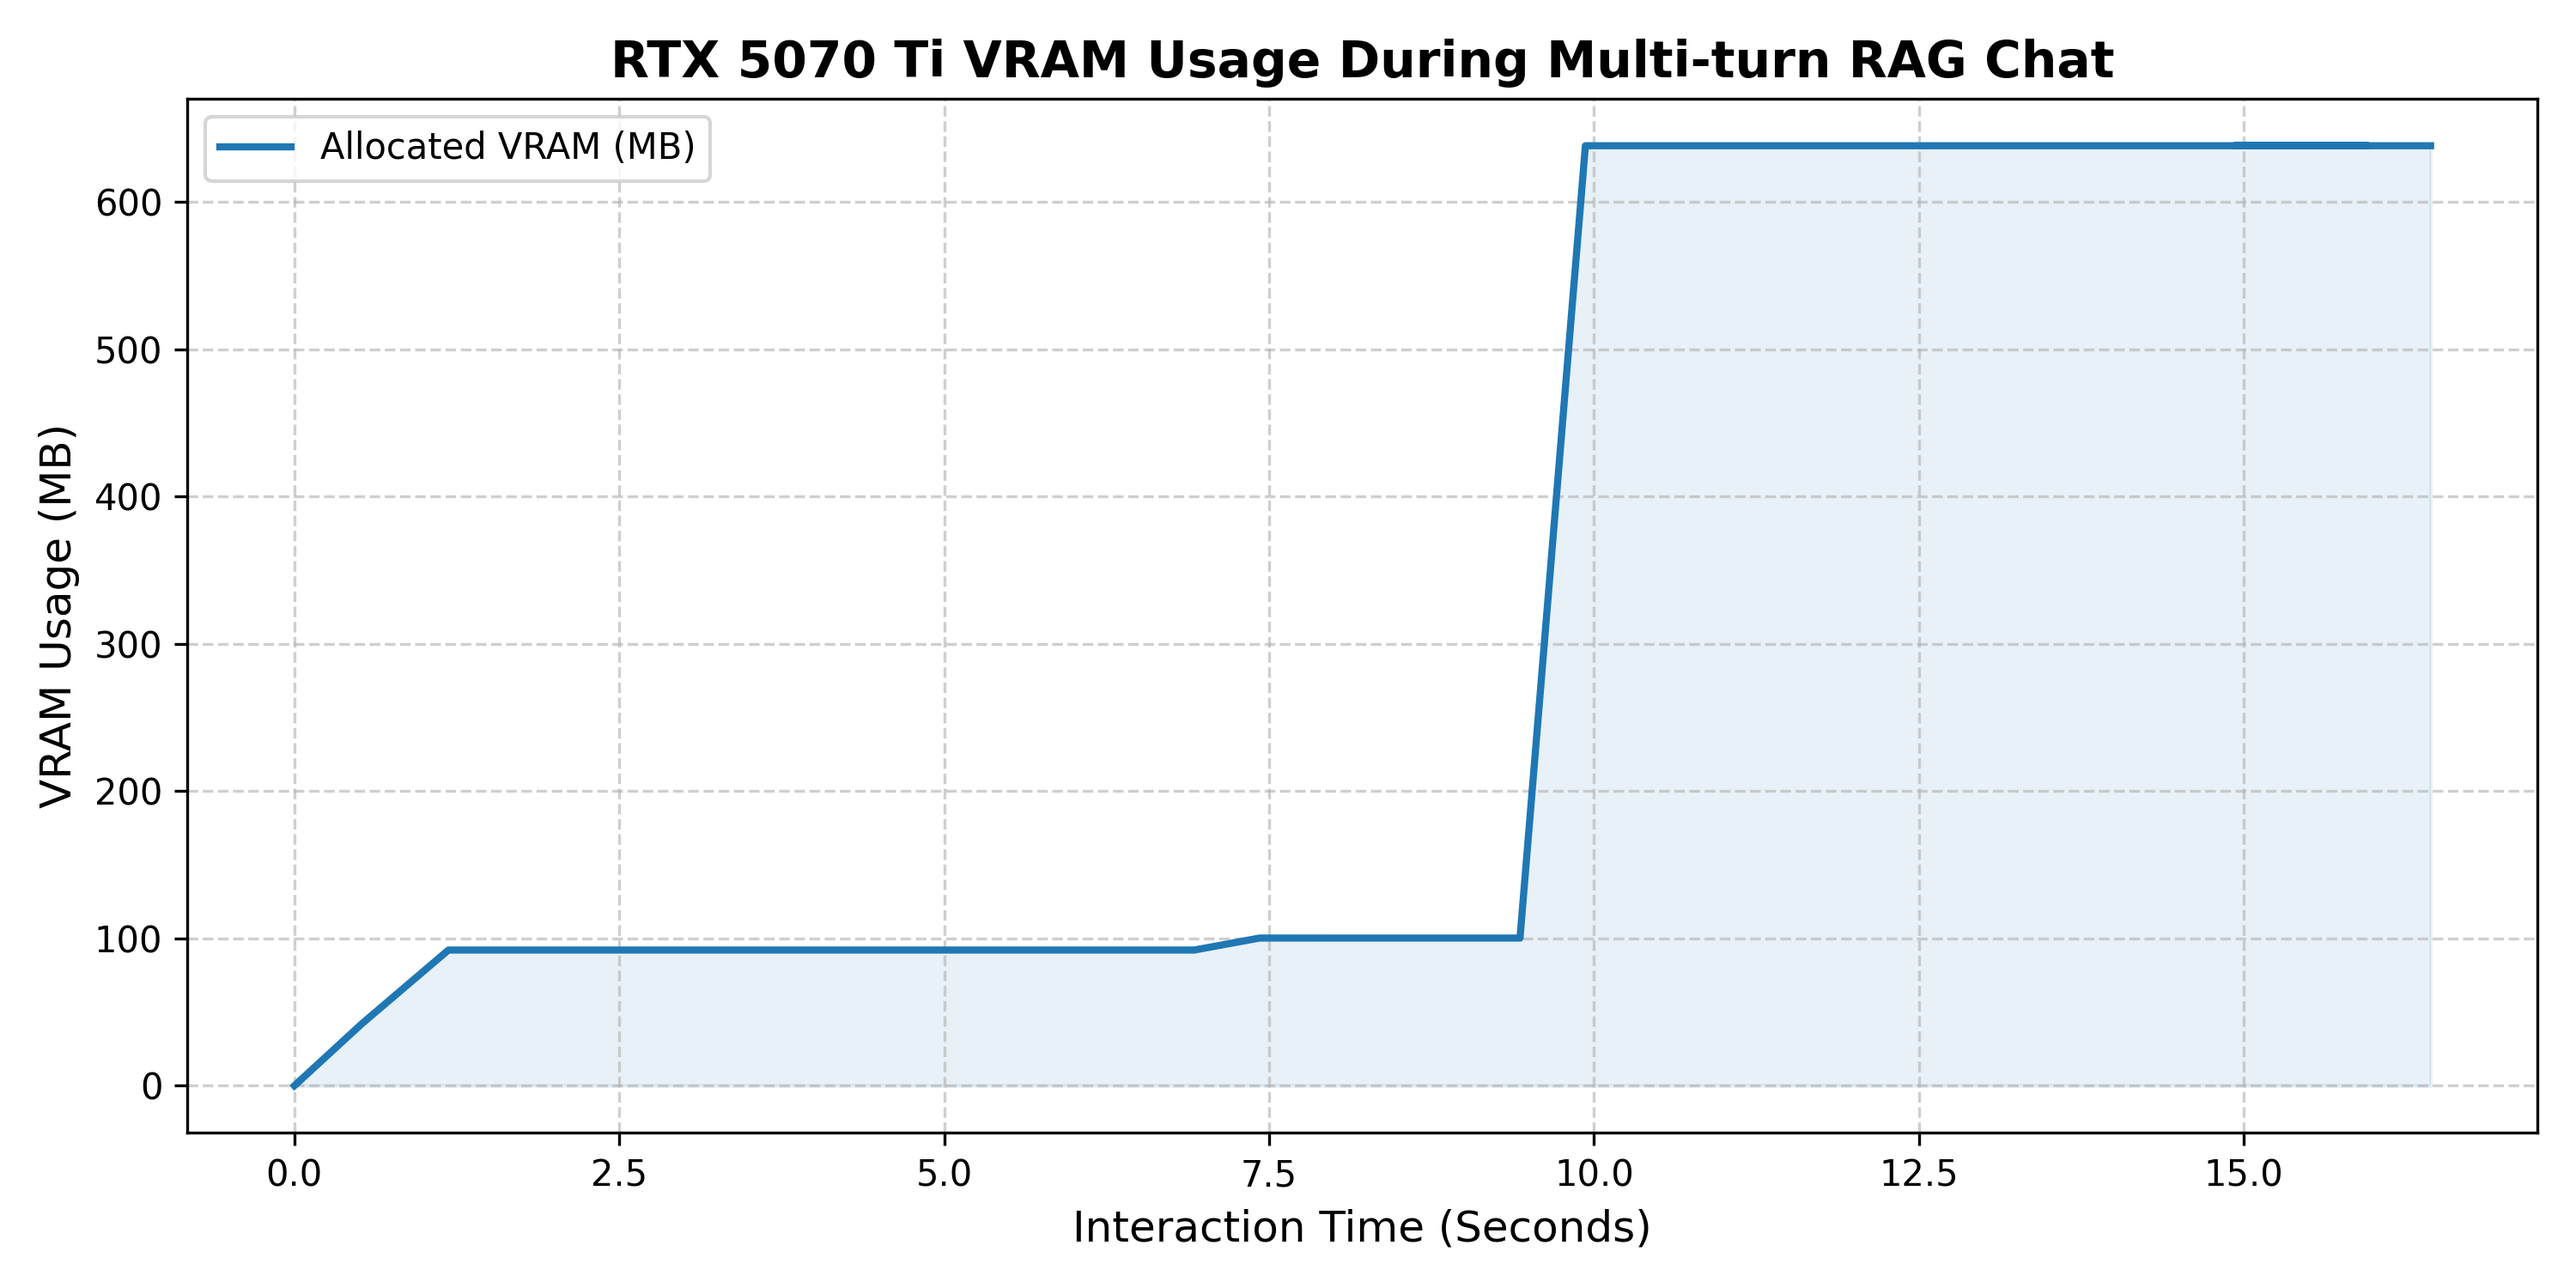
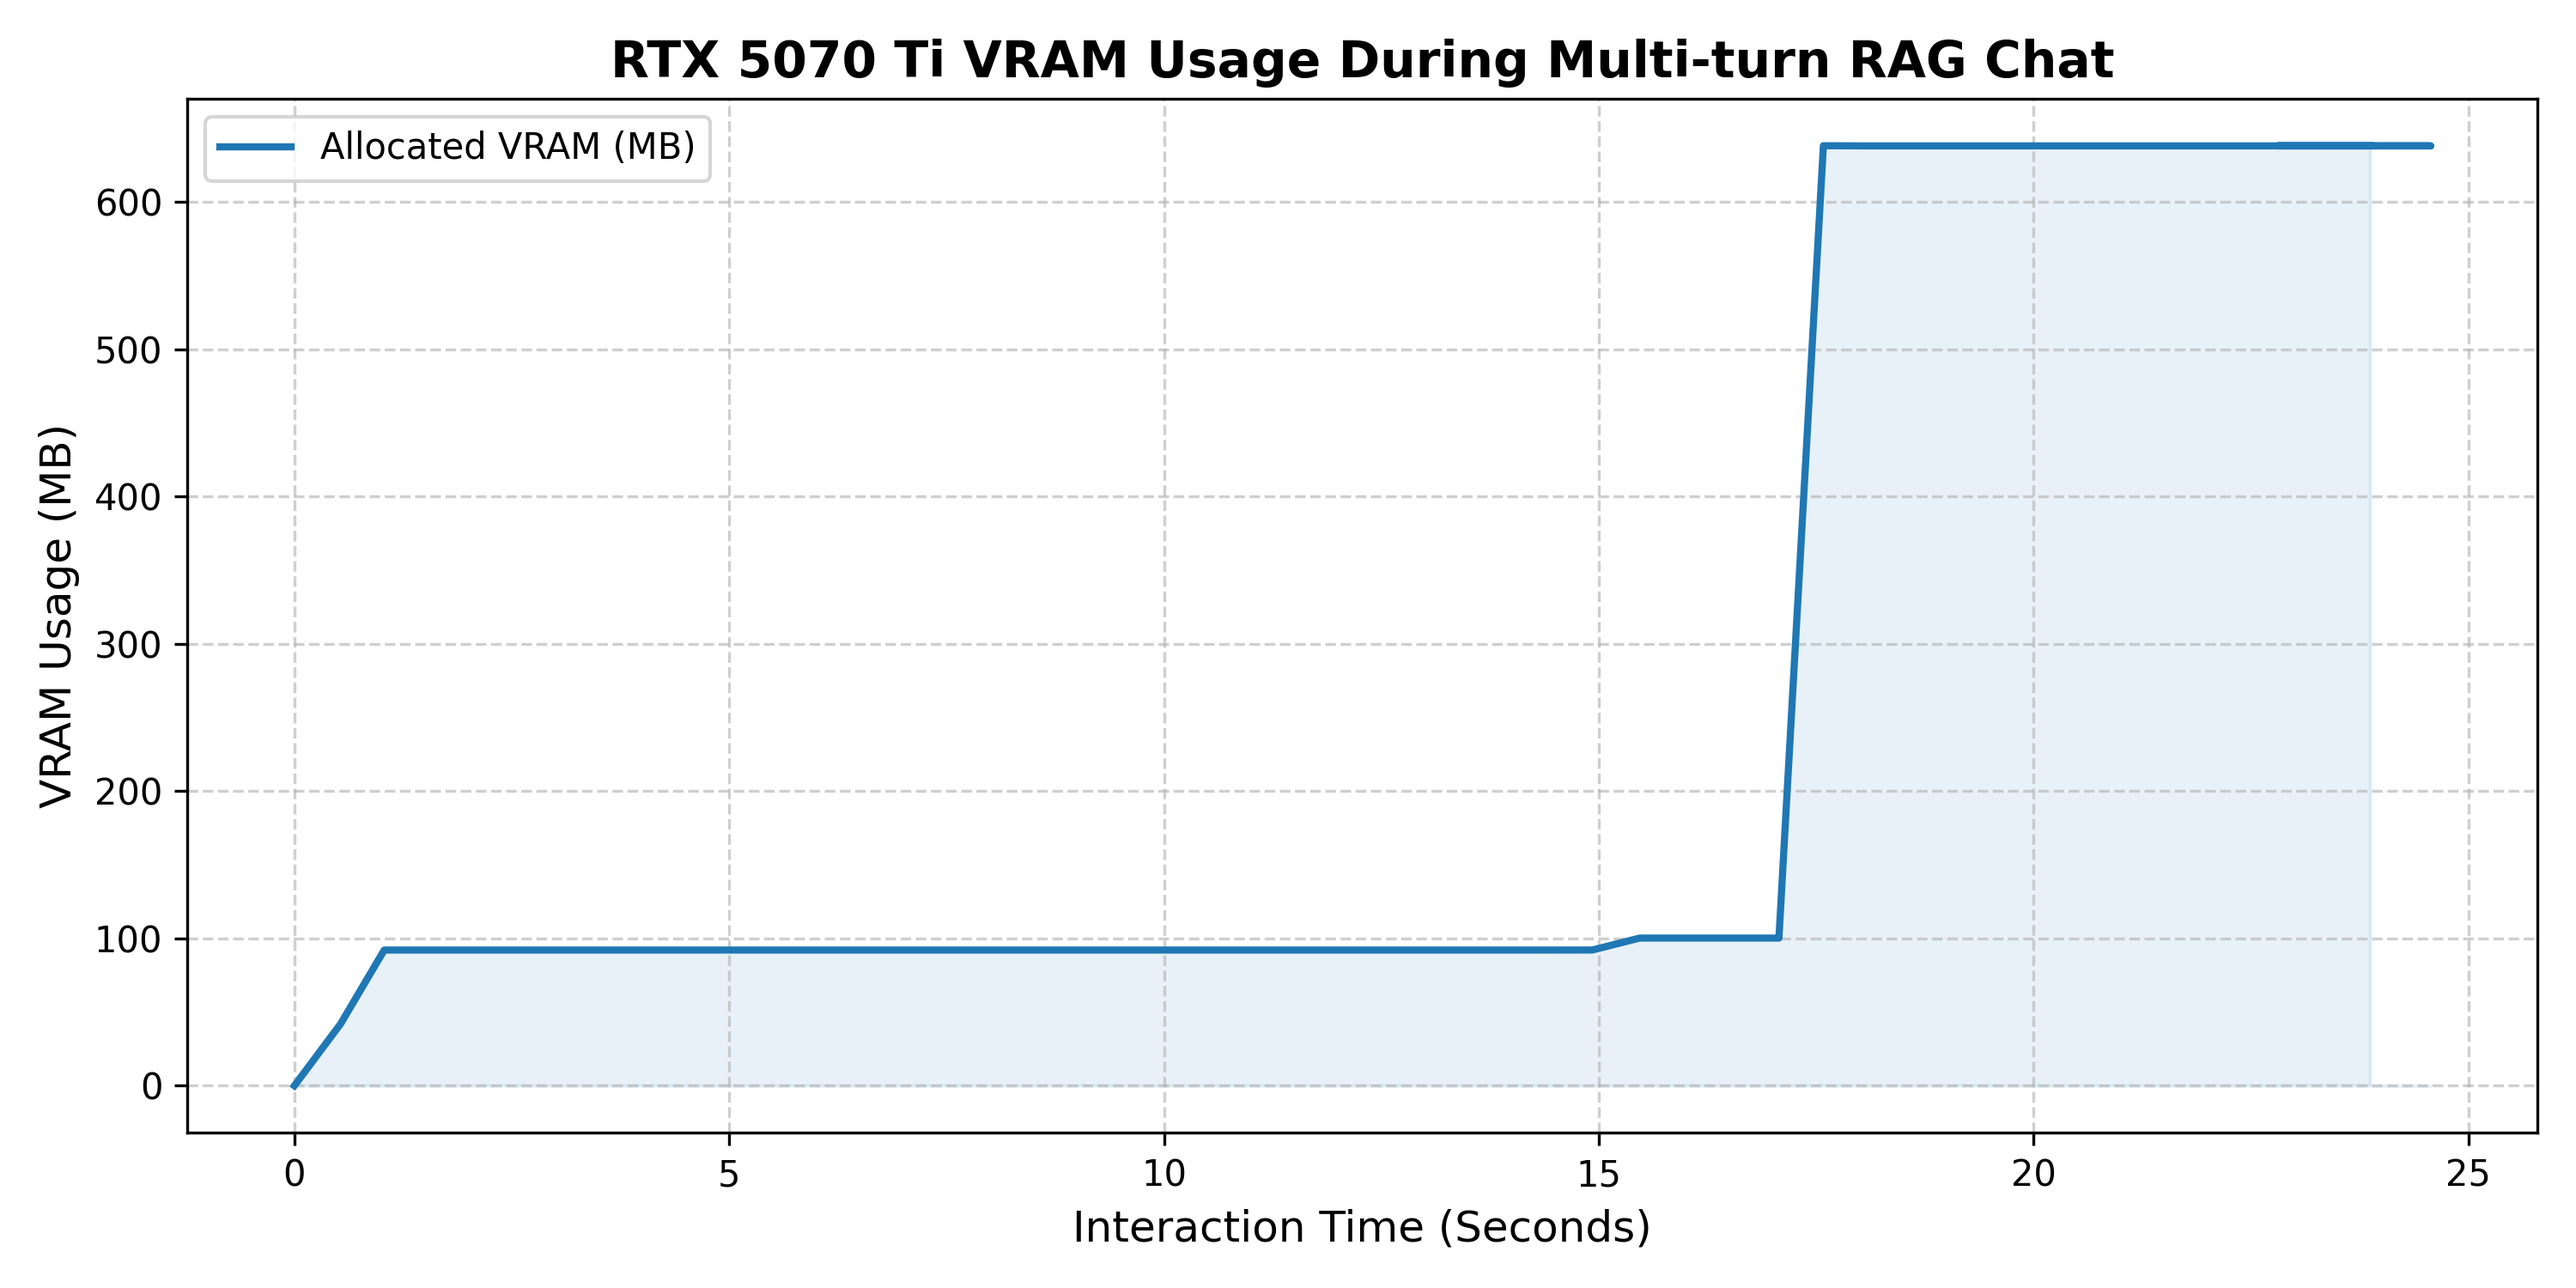
docs: add architecture diagram

diff --git a/main.py b/main.py
@@ -46,7 +46,7 @@ def main():
         # 初始化切分器
         chunker = SemanticChunker(Config.CHUNK_SIZE, Config.OVERLAP_SENTENCE)
 
-        # 2 基础知识读取与文本清洗
+        # 2 基础知识读取与文本简单清洗
         base_vs = VectorStore(Config.BASE_DB_PATH, Config.VECTOR_DIM)
 
         if os.path.exists(Config.DATA_PATH):

diff --git a/README.md b/README.md
@@ -2,26 +2,25 @@
 
 ## 项目简介
 本项目是一个基于本地化大模型（Ollama + Llama3）与双引擎向量数据库（FAISS）构建的检索增强生成（RAG）系统。
-
-核心创新点在于打破了传统 RAG 系统的“无状态”痛点，设计了独立的 **MemoryManager（动态记忆管理器）**。系统不仅能基于静态基础专业知识库进行精准问答，还能在多轮对话中动态捕获用户的个性化偏好，实现真正的“长期记忆”。
+核心创新点在于打破了传统 RAG 系统的“无状态”痛点，设计了独立的 “MemoryManager（动态记忆管理器）”。系统不仅能基于静态基础专业知识库进行精准问答，还能在多轮对话中动态捕获用户的个性化偏好，实现真正的“长期记忆”。
 
 ## 系统架构图 (Architecture)
 
-### 1. 离线冷启动与知识建库 (Phase 1)
+### 1. 离线冷启动与知识建库
 <div align="center">
-  <img src="https://github.com/user-attachments/assets/ec6d7e73-c470-41f8-838d-54a07009f75b" width="800">
-  <p><em>图 1: 基础知识库 O(n) 向量化与硬写入流</em></p>
+  <img src="./assets/offline_cold_start.jpg" width="800">
+  <p><em>图 1: 基础知识库向量化</em></p>
 </div>
 
-### 2. 在线并发问答与记忆沉淀闭环 (Phase 2)
+### 2. 在线并发问答与记忆沉淀闭环
 <div align="center">
-  <img src="https://github.com/user-attachments/assets/e479385d-2e38-4cac-bc4b-a1d8a1c6f0eb" width="800">
+  <img src="./assets/online_qa.jpg" width="800">
   <p><em>图 2: RAG 核心引擎在线双轨调度流与动态记忆更新</em></p>
 </div>
 
 ## 核心架构亮点
 - **双轨向量检索架构**：物理隔离 `Base Knowledge`（高容量基础库）与 `User Memory`（动态记忆库），阻断核心知识被日常闲聊污染。
-- **深度检索引擎**：融合双塔向量召回 (Bi-Encoder, `bge-small`) 粗排与交叉编码器 (Cross-Encoder, `bge-reranker`) 精排，极大提升长尾记忆的提取精度。
+- **深度检索引擎**：融合双塔向量召回 (Bi-Encoder, `bge-small-zh-v1.5`) 粗排与交叉编码器 (Cross-Encoder, `bge-reranker-base`) 精排，极大提升长尾记忆的提取精度。
 - **U型 Prompt 组装策略**：将客观知识置顶，短期会话置底，严格遵循系统级隔离，有效缓解大模型的 Attention 丢失（Lost in the Middle）现象。
 - **全链路资源监控兜底**：系统内置后台显存监控线程，哪怕发生 OOM 崩溃，系统也会在临死前（`finally`）生成压测显存折线图，极大提升工程可维护性。
 - **配置与代码解耦**：采用 `.env` 环境变量注入机制，实现本地算力调度与云端部署环境的安全隔离。
@@ -67,10 +66,19 @@
    *启动后，系统将自动进行冷启动知识入库，并在 `outputs/` 目录下生成显存性能图表。*
 
 ## 后续架构演进路线 (Future Work)
-在当前系统基础上，规划了以下前沿维度的技术迭代路线：
-- [ ] **外部 KV Buffer 内存容量优化**：探索通过构建结构化的外部 Key-Value 缓存机制，替代纯文本向量追加，以极低的时间复杂度解决动态记忆的冲突问题，并大幅提升系统长期记忆的容量上限与存取效率。
-- [ ] **引入 Query Router (意图识别路由)**：利用轻量级 LLM 或分类模型作为前置路由，动态切分闲聊与专业提问，进一步抑制上下文注意力稀释。
-- [ ] **向 Agentic RAG 跃迁**：将双库检索封装为独立 Tools，交由大模型进行自主规划与调度调用。
+在当前 V1.0 系统的基础上，为满足更高标准的工业落地需求，并吸收前沿基础模型（如 SAM 2 等）在处理无限序列时的底层架构经验，规划了以下前沿维度的技术迭代路线：
+
+- [ ] **工业级数据预处理与治理 (Data ETL Pipeline)**：重构底层数据接入层，引入更为精细的基于正则与语义的去噪清洗规则，提升 Chunking 质量，从源头解决 RAG 系统的“垃圾进，垃圾出 (GIGO)”问题。
+- [ ] **引入 Metadata 混合检索与时序衰减机制 (Hybrid Search & Time Decay)**：
+  - 在文本切片入库前，借助 LLM 拦截器提取核心实体与权限等级等元信息构建混合架构，解决纯向量检索在精确匹配上的盲区。
+  - **[架构融合]** 借鉴前沿视觉模型对位置编码的“解耦思想”，在动态记忆库 (User Memory) 的检索中引入“时间衰减权重”（近期记忆权重高于远期），同时对黄金知识库 (Base Knowledge) 保持绝对的无时间衰减判定。
+- [ ] **外部 KV Buffer 优化与“对象指针 (Object Pointers)”记忆压缩**：
+  - 探索通过构建结构化的外部 Key-Value 缓存机制，替代纯文本向量追加，解决动态记忆的冲突问题。
+  - **[架构融合]** 引入类似 SAM 2 的“对象指针”概念，在存入冗长的原始记忆切片前，利用轻量级 LLM 异步抽取出极度压缩的“一句话摘要或核心意图”作为向量化索引。实现“摘要建库，原文召回”，以极低的时间复杂度大幅提升系统长期记忆的容量上限与存取效率。
+- [ ] **基于动态阈值的记忆生命周期管理 (Memory Lifecycle & Eviction)**：
+  - **[架构融合]** 升级当前的静态 FAISS 距离查重逻辑。不仅判断“信息新颖度”，更引入结合 FIFO 窗口与检索频率（Attention Score）的动态驱逐/折叠策略。定期清洗或合并长期未被激活的低价值记忆，维持向量空间的高信息熵，防止知识库极速膨胀。
+- [ ] **引入 Query Router (意图识别路由)**：利用轻量级 LLM 或分类模型作为前置路由，动态切分闲聊、专业提问与指令操作，进一步抑制上下文注意力稀释。
+- [ ] **向 Agentic RAG 跃迁**：将双库（知识/记忆）检索封装为独立的 Tools，交由大模型进行自主规划与调度调用，实现从“被动检索”到“主动探查”的范式升维。
 
 ## 免责声明
 本项目及其代码仅供学术研究与工程技术交流使用。严禁使用本系统对受著作权保护的文本进行非法索引、传播或商业化。开发者不对用户上传及生成的任何内容负责。
